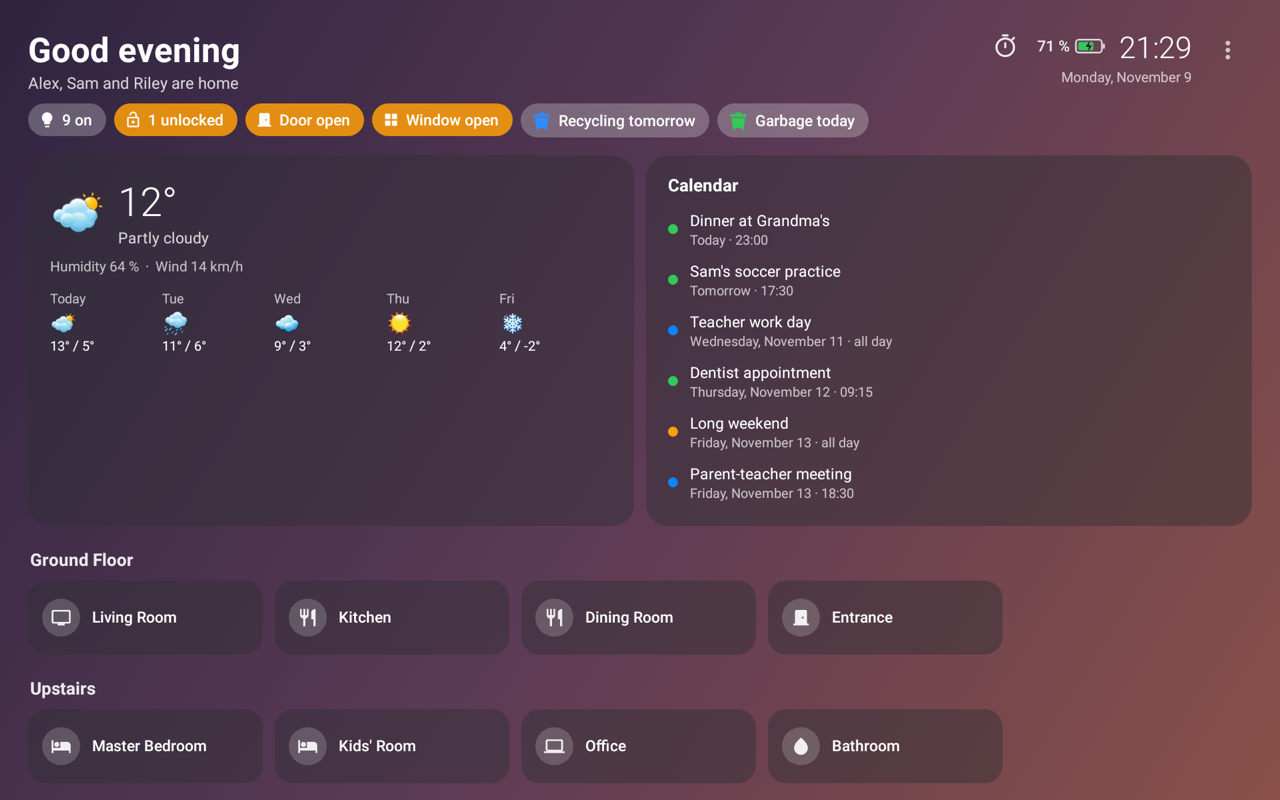
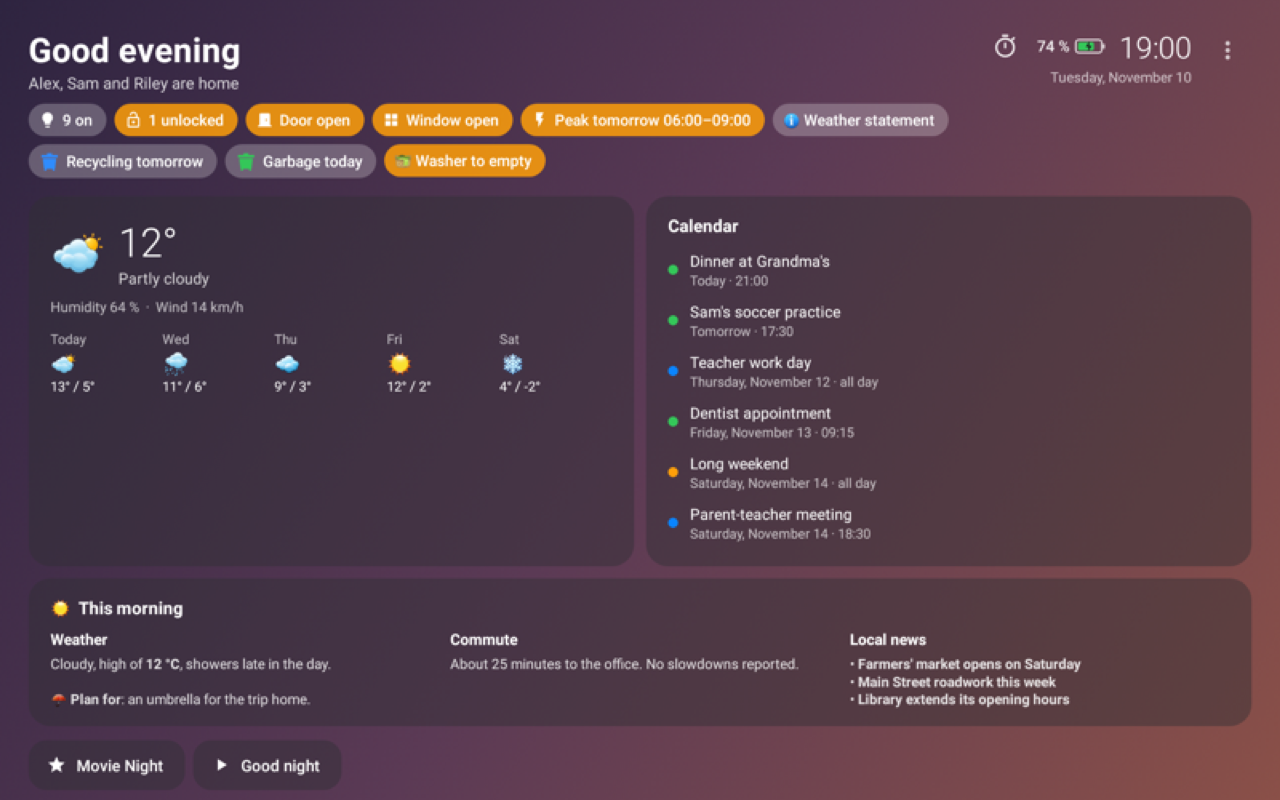
Demo examples and docs for the new home-screen features
Demo mode now shows an electricity peak, a weather statement, collection
chips, a washer custom chip, the morning card and shortcuts. New home
screenshot and morning card screenshot in the README; changelog note.

diff --git a/app/src/main/java/com/homepanel/kiosk/Config.kt b/app/src/main/java/com/homepanel/kiosk/Config.kt
@@ -146,33 +146,33 @@ class ConfigStore(ctx: Context) {
 
     /** Calendrier des pointes d'électricité (Hydro-Québec), vide = pas de pastille. */
     var peakCalendar: String
-        get() = p.getString("peakCalendar", "") ?: ""
+        get() = if (demo) "calendar.peaks" else p.getString("peakCalendar", "") ?: ""
         set(v) = p.edit().putString("peakCalendar", v).apply()
     /** Rappel (notification) avant le début d'une pointe, en minutes ; 0 = aucun. */
     var peakReminder: Int
-        get() = p.getInt("peakReminder", 60)
+        get() = if (demo) 0 else p.getInt("peakReminder", 60)
         set(v) = p.edit().putInt("peakReminder", v.coerceIn(0, 720)).apply()
     /** Capteurs d'alertes météo (nombre d'alertes en vigueur), ex. Environnement Canada. */
     var weatherAlerts: List<String>
-        get() = csv("weatherAlerts")
+        get() = if (demo) listOf("sensor.weather_advisories") else csv("weatherAlerts")
         set(v) = p.edit().putString("weatherAlerts", v.joinToString(",")).apply()
     /** Raccourcis de l'accueil : scripts, scènes, boutons. */
     var shortcuts: List<String>
-        get() = csv("shortcuts")
+        get() = if (demo) listOf("scene.movie_night", "script.goodnight") else csv("shortcuts")
         set(v) = p.edit().putString("shortcuts", v.joinToString(",")).apply()
     /** Pastilles personnalisées : [{entity, states:[..], text, color}] (JSON). */
     var customChips: JSONArray
-        get() = try { JSONArray(p.getString("customChips", "[]")) } catch (_: Exception) { JSONArray() }
+        get() = if (demo) JSONArray().put(JSONObject().put("entity", "input_select.washer").put("states", JSONArray().put(if (I18n.english) "To empty" else "À vider")).put("text", if (I18n.english) "🧺 Washer to empty" else "🧺 Laveuse à vider").put("color", "orange")) else try { JSONArray(p.getString("customChips", "[]")) } catch (_: Exception) { JSONArray() }
         set(v) = p.edit().putString("customChips", v.toString()).apply()
     /** Carte du matin : sources [{entity, attribute, title}] (JSON) et plage horaire (minutes). */
     var morningSources: JSONArray
-        get() = try { JSONArray(p.getString("morningSources", "[]")) } catch (_: Exception) { JSONArray() }
+        get() = if (demo) JSONArray().put(JSONObject().put("entity", "sensor.morning_summary").put("attribute", "weather").put("title", if (I18n.english) "Weather" else "Météo")).put(JSONObject().put("entity", "sensor.morning_summary").put("attribute", "commute").put("title", if (I18n.english) "Commute" else "Trajet")).put(JSONObject().put("entity", "sensor.local_news").put("attribute", "").put("title", if (I18n.english) "Local news" else "Nouvelles locales")) else try { JSONArray(p.getString("morningSources", "[]")) } catch (_: Exception) { JSONArray() }
         set(v) = p.edit().putString("morningSources", v.toString()).apply()
     var morningStart: Int
-        get() = p.getInt("morningStart", 5 * 60)
+        get() = if (demo) 0 else p.getInt("morningStart", 5 * 60)
         set(v) = p.edit().putInt("morningStart", v.coerceIn(0, 1439)).apply()
     var morningEnd: Int
-        get() = p.getInt("morningEnd", 10 * 60)
+        get() = if (demo) 1439 else p.getInt("morningEnd", 10 * 60)
         set(v) = p.edit().putInt("morningEnd", v.coerceIn(0, 1439)).apply()
     fun isMorningNow(): Boolean {
         val c = java.util.Calendar.getInstance()

diff --git a/app/src/main/java/com/homepanel/kiosk/Demo.kt b/app/src/main/java/com/homepanel/kiosk/Demo.kt
@@ -198,6 +198,20 @@ object Demo {
         st("calendar.school", "off", n("École", "School")),
         st("calendar.holidays", "off", n("Jours fériés", "Holidays")),
         st("calendar.collection", "off", n("Collectes", "Collections")),
+        // Accueil : pointes, alerte météo, raccourcis, pastille personnalisée, carte du matin
+        st("calendar.peaks", "off", n("Pointes d'électricité", "Electricity peaks")),
+        st("sensor.weather_advisories", "1", n("Avis météo", "Weather advisories"),
+            "alert_1" to n("Avis de pluie verglaçante : chaussées glissantes ce soir.", "Freezing rain advisory: slippery roads this evening.")),
+        st("script.goodnight", "off", n("Bonne nuit", "Good night")),
+        st("input_select.washer", n("À vider", "To empty"), n("Laveuse", "Washer"), "options" to listOf(n("En cours", "Running"), n("À vider", "To empty"), n("Inactive", "Idle"))),
+        st("sensor.morning_summary", "07:00", n("Résumé du matin", "Morning summary"),
+            "weather" to n("Nuageux, max **12 °C**, averses en fin de journée.\n\n☂ **À prévoir** : un parapluie pour le retour.",
+                "Cloudy, high of **12 °C**, showers late in the day.\n\n☂ **Plan for**: an umbrella for the trip home."),
+            "commute" to n("Environ 25 minutes jusqu'au bureau. Aucun ralentissement signalé.", "About 25 minutes to the office. No slowdowns reported.")),
+        st("sensor.local_news", "5", n("Nouvelles locales", "Local news"), "entries" to listOf(
+            mapOf("title" to n("Le marché fermier ouvre samedi", "Farmers' market opens on Saturday")),
+            mapOf("title" to n("Travaux sur la rue Principale cette semaine", "Main Street roadwork this week")),
+            mapOf("title" to n("La bibliothèque prolonge ses heures", "Library extends its opening hours")))),
     )
 
     // ------------------------------------------------------------ actions
@@ -323,6 +337,7 @@ object Demo {
                 }
                 "calendar.holidays" -> put(allDay(n("Long congé", "Long weekend"), 4))
                 // Collectes : ordures aujourd'hui (jusqu'à 23 h), recyclage demain.
+                "calendar.peaks" -> put(if (hour < 16) timed(n("Pointe", "Peak"), at(0, 16), at(0, 20)) else timed(n("Pointe", "Peak"), at(1, 6), at(1, 9)))
                 "calendar.collection" -> {
                     put(timed(n("Ordures", "Garbage"), at(0, 6), at(0, 23)))
                     put(allDay(n("Matières recyclables", "Recycling"), 1))

diff --git a/CHANGELOG.md b/CHANGELOG.md
@@ -10,6 +10,7 @@ TileHouse uses calendar versioning: `YEAR.MONTH.N`.
 - Shortcuts: large buttons for chosen scripts, scenes and buttons on the home screen.
 - Morning card: during a chosen time range, a card with the sources you choose (any entity state/attribute as Markdown text, or a news feed's headlines); the web page suggests summaries and feeds it finds; tap to read everything.
 - Notification action buttons: up to 3 buttons (`actions`: title, service, entity_id, data) that call a Home Assistant service and mark the notification read.
+- Demo mode shows examples of every new home-screen feature (peak, weather statement, collections, washer chip, morning card, shortcuts); help page updated with a new home screenshot and the morning card.
 - Fix: changing the tablet's language no longer logs "Invalid option" errors in Home Assistant for the Theme, Wallpaper and Screen saver selects. Each language now has its own MQTT state topic for these lists, and the value is published before the list, so Home Assistant never reads a value in the other language.
 
 ## 2026.11.5

diff --git a/README.md b/README.md
@@ -176,6 +176,9 @@ Everything can also be done directly on the tablet, from the ⋮ menu in the top
 - **Morning card**: during a time range (default 05:00–10:00), a card with the sources you choose: a text from any entity state or
   attribute (Markdown, e.g. the sections of a generated morning summary) or a news feed (headlines of a feed sensor's `entries`).
   The web page suggests the summaries and feeds it finds, and you can add any other entity. Tap the card to read everything.
+
+  <img src="docs/screenshots/morning-card.png" width="860" alt="Morning card opened: weather, commute and local news">
+
 - **Kitchen timers** (⏱ next to the time) and the **notification bell** with the number of unread notifications — see
   [Kitchen timers](#kitchen-timers) and [Notifications](#notifications).
 - **Clock and date** (optional) in the top‑right corner, with the **tablet's battery** next to the time (optional; green with a bolt
